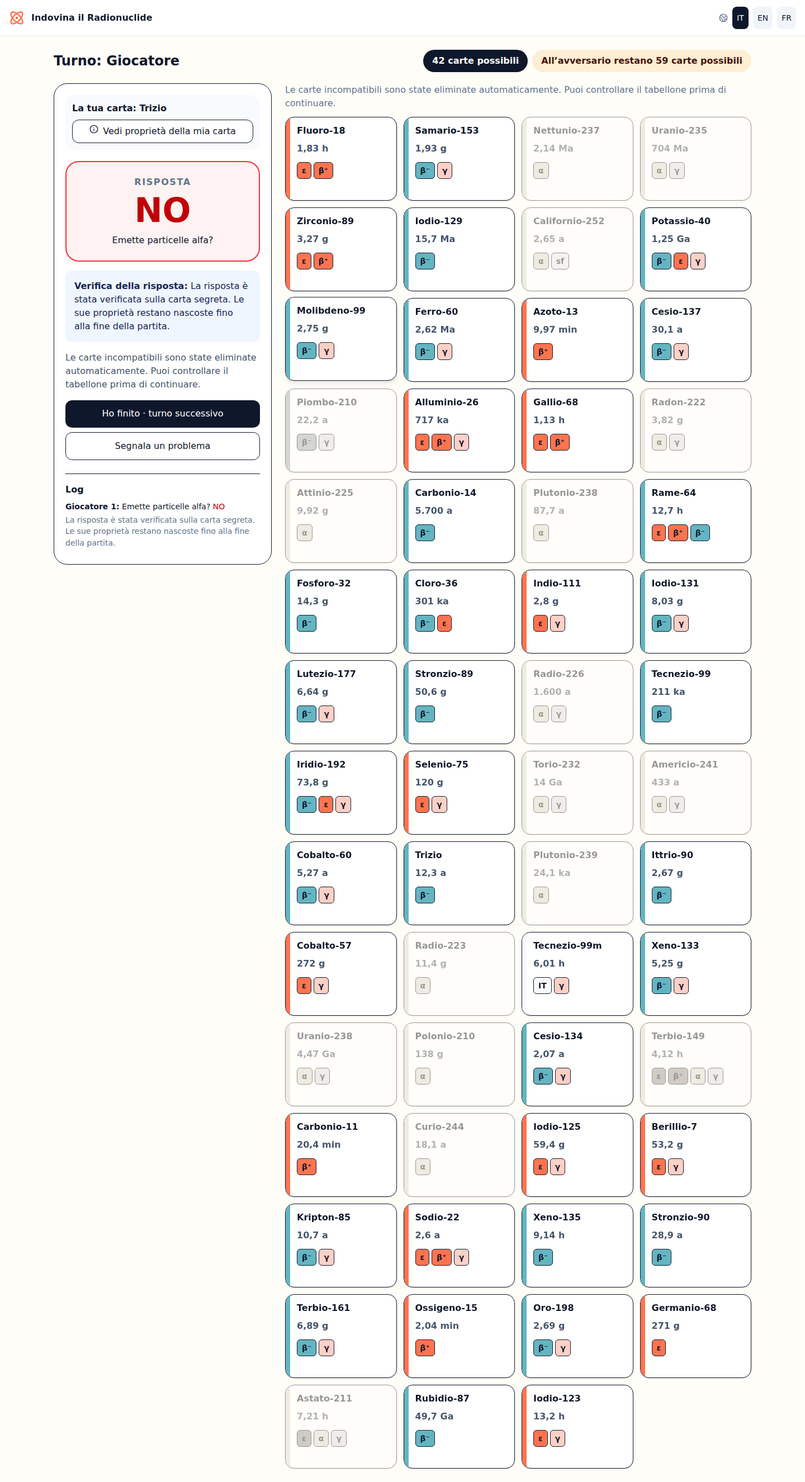
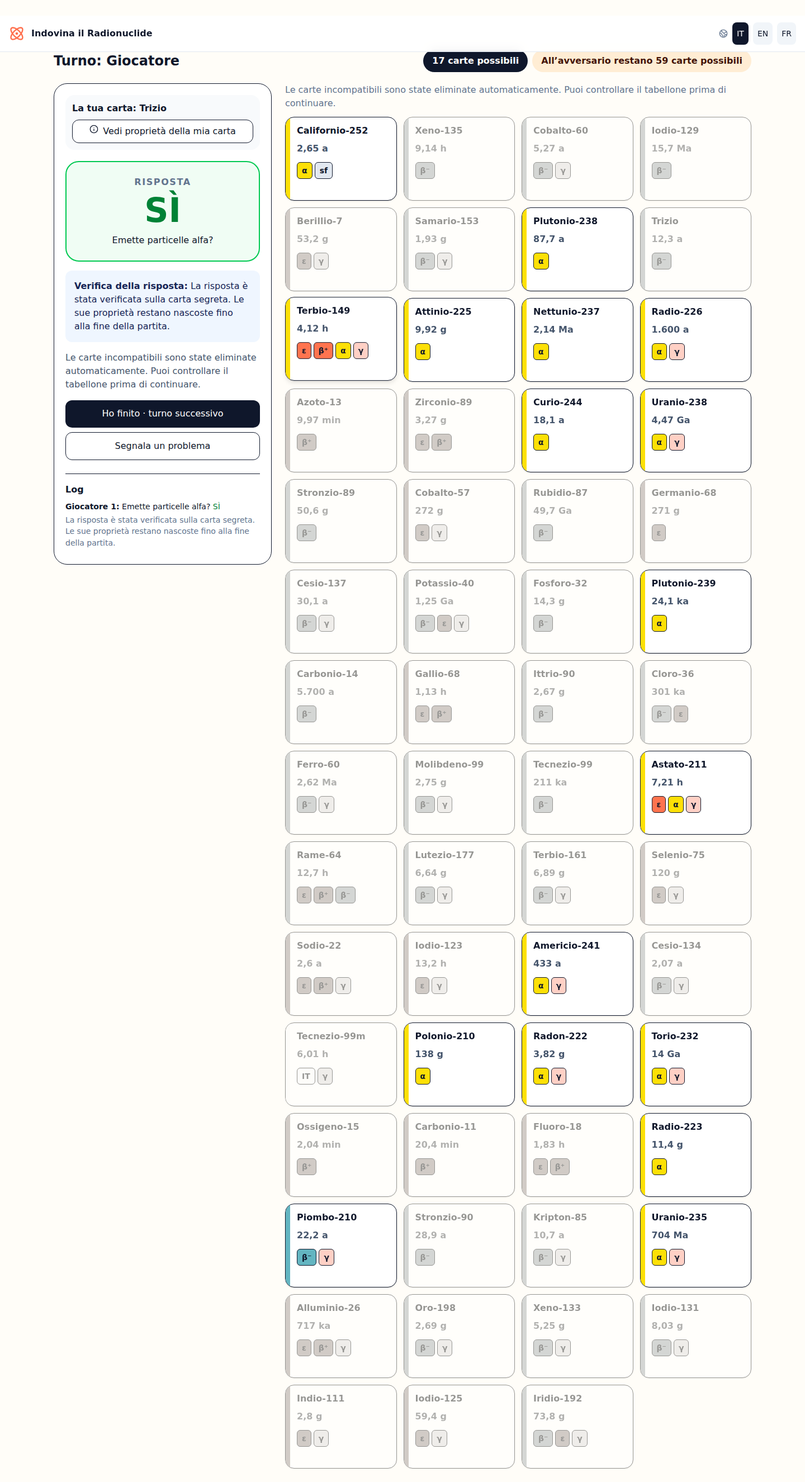
Add files via upload

diff --git a/src/upgrade.css b/src/upgrade.css
@@ -1,3 +1,4 @@
 :root{color-scheme:light;--ink:#142a43;--line:#d9e2ec;--accent:#e9623e}body{margin:0;font-family:Inter,ui-sans-serif,system-ui,sans-serif;line-height:1.55}button,input,textarea,select{font:inherit}button{cursor:pointer;touch-action:manipulation;min-height:40px}button:disabled{cursor:wait}button:focus-visible,a:focus-visible,input:focus-visible,textarea:focus-visible{outline:3px solid #087f8c;outline-offset:3px}.text-xs{font-size:.875rem!important;line-height:1.45!important}.text-sm{font-size:1rem!important;line-height:1.5!important}.evidence{margin:1.5rem 0;border:1px solid var(--line);border-top:4px solid #087f8c;border-radius:12px;padding:1rem;background:#f6fafc}.evidence h3,.evidence h4{font-weight:750;margin:.5rem 0}.evidence dl{display:grid;grid-template-columns:1fr 1fr;gap:.5rem;font-size:.875rem}.evidence dd{margin:0;font-weight:600}.evidence p{font-size:.875rem;margin:.75rem 0}.evidence a{color:#005e76;text-decoration:underline}.evidence input[type=range],.evidence progress{display:block;width:100%;margin:.8rem 0}.confirm-query h2{font-size:1.35rem;font-weight:800;margin-bottom:.75rem}.confirm-query p{margin:.75rem 0}.confirm-query button{padding:.65rem 1rem;border-radius:.65rem;border:1px solid var(--line);margin:.35rem}.confirm-query .confirm{background:var(--ink);color:white}.privacy-screen{position:fixed;inset:0;z-index:70;background:var(--ink);color:white;display:grid;place-content:center;text-align:center;padding:2rem}.privacy-screen button{background:white;color:var(--ink);padding:.85rem 1.5rem;border-radius:.75rem;margin:1rem}.status-line{font-size:.875rem;color:#475569}.upgrade-tag{font-size:.75rem;font-weight:750;border:1px solid var(--line);border-radius:20px;padding:.2rem .55rem}.sr-only{position:absolute;width:1px;height:1px;padding:0;margin:-1px;overflow:hidden;clip:rect(0,0,0,0);white-space:nowrap;border:0}@media(max-width:600px){header{gap:.25rem!important;padding:.6rem!important}main{padding-left:1rem!important;padding-right:1rem!important}.text-5xl{font-size:2.5rem!important}.evidence dl{grid-template-columns:1fr}.evidence dd{margin-bottom:.5rem}}@media(prefers-reduced-motion:reduce){*{scroll-behavior:auto!important;animation:none!important;transition:none!important}}
 
 [data-card-id] button{overflow-wrap:anywhere}@media(max-width:430px){.grid-cols-3{grid-template-columns:repeat(2,minmax(0,1fr))!important}}
+.mp-shell{max-width:1200px;margin:auto;padding:1rem;color:#142a43}.mp-shell h1{font-size:1.7rem;font-weight:800}.mp-shell h2{font-size:1.3rem;font-weight:700}.mp-shell h3{font-size:1.1rem;font-weight:700}.mp-panel{border:1px solid #dce2ea;background:#fff;border-radius:1.3rem;padding:1rem;margin:.8rem 0;height:fit-content}.mp-shell button{min-height:44px;border:1px solid #9facbc;border-radius:.8rem;padding:.6rem .9rem;font-weight:700;background:#f5f8fc}.mp-panel>button{display:block;width:100%;margin:.6rem 0}.mp-shell button:disabled{opacity:.5;cursor:default}.mp-shell input:not([type=checkbox]),.mp-shell textarea{width:100%;border:1px solid #9facbc;border-radius:.6rem;padding:.75rem;font-size:1rem}.mp-shell textarea{min-height:110px}.mp-shell label{display:block;margin:.6rem 0}.mp-top{display:flex;justify-content:space-between;align-items:center;gap:.8rem;flex-wrap:wrap}.mp-code{font:800 1.6rem monospace;letter-spacing:.13em}.mp-invite{display:block;overflow-wrap:anywhere;text-decoration:underline;font-size:.85rem}.mp-board{display:grid;grid-template-columns:repeat(2,minmax(0,1fr));gap:.65rem;align-content:start}.mp-board>*{min-width:0}.mp-board button{border:0;border-radius:0;background:transparent}.mp-board article>button+button{border:1px solid #cbd5e1;border-radius:.6rem;background:#f8fafc}.mp-actions{display:flex;gap:.6rem;margin-top:.7rem}.mp-actions button{flex:1}.mp-check{display:flex!important;gap:.6rem;align-items:center;min-height:44px}.mp-check input{width:22px;height:22px}.mp-question{white-space:pre-wrap;overflow-wrap:anywhere;padding:.7rem;background:#f1f5f9;border-radius:.6rem}.mp-error{background:#fff2e5;padding:.8rem;border-radius:.7rem}.mp-confirm{display:flex;flex-direction:column;gap:.5rem}.mp-shell p{margin:.55rem 0}.mp-shell button:focus-visible,.mp-shell input:focus-visible,.mp-shell textarea:focus-visible{outline:3px solid #1d4ed8;outline-offset:2px}@media(min-width:850px){.mp-layout{display:grid;grid-template-columns:320px 1fr;gap:1rem}.mp-board{grid-template-columns:repeat(3,minmax(0,1fr))}}

diff --git a/docs/MULTIPLAYER_FIREBASE_SETUP.md b/docs/MULTIPLAYER_FIREBASE_SETUP.md
@@ -1,0 +1,92 @@
+# Multiplayer Firebase setup
+
+The frontend remains on **GitHub Pages**. Firebase supplies only Anonymous Authentication and Realtime Database, compatible with the Spark plan. No Cloud Functions, Firebase Hosting, external AI, model weights or visible account signup are needed. Offline/single-player/local/atlas modes do not initialize Firebase.
+
+## 1. Project and anonymous authentication
+
+Create or select a project in the [Firebase console](https://console.firebase.google.com/). Keep Spark unless you intentionally choose otherwise. Under **Build → Authentication → Sign-in method**, enable **Anonymous**. This gives each browser a persistent anonymous UID, not a public profile. See [anonymous web authentication](https://firebase.google.com/docs/auth/web/anonymous-auth).
+
+## 2. Realtime Database
+
+Create **Realtime Database**, not Cloud Firestore, and choose a region. Start locked, not with public test rules. Copy the exact database URL displayed in the console; its hostname may end in `firebaseio.com` or `firebasedatabase.app`. See [Realtime Database web setup](https://firebase.google.com/docs/database/web/start).
+
+## 3. Register the web app and supply its public config
+
+Under **Project settings → General**, register a web app (`</>`). Do not enable Firebase Hosting. Copy only the web configuration values corresponding to `firebase-config.example.json`.
+
+For GitHub Pages, set repository **Settings → Secrets and variables → Actions → Variables → New repository variable**:
+
+- Name: `RN_FIREBASE_CONFIG`
+- Value: the complete JSON object, with double-quoted keys/strings, not `const firebaseConfig = ...`.
+
+`.github/workflows/static.yml` passes this variable to `npm run build`, which writes `dist/firebase-config.json`. The config is public by design; database rules and auth provide access control. Never put a service-account JSON, private key or administrator token here.
+
+For local development, copy `firebase-config.example.json` to `firebase-config.json` in the repository root and replace the placeholders. That file is ignored by Git. Alternatively set the same environment variable. Run `npm ci`, `npm run build`, then `npm run dev`. The existing server prints the local URL.
+
+## 4. Apply the database rules
+
+Open **Realtime Database → Rules**, paste the full contents of `database.rules.json`, then **Publish**. Do not use broad `.read: true` or `.write: true` rules to resolve errors.
+
+CLI alternative, after authenticating your own Firebase CLI account:
+
+```sh
+npx firebase deploy --only database --project YOUR_PROJECT_ID
+```
+
+`scripts/multiplayer-rules.mjs` is the maintainable source for the checked-in JSON. If editing it, run `npm run rules:generate`, review the JSON diff, and run the emulator tests before deploying. This task does not deploy anything to your Firebase project. See [Security Rules](https://firebase.google.com/docs/database/security).
+
+## 5. Authorized domains and deployment
+
+In **Authentication → Settings → Authorized domains**, add `mcolucci97.github.io` (hostname only, no protocol or repository path), and your custom domain if used. For local testing also add `localhost` and `127.0.0.1` when necessary. Keep the existing **Pages → Source: GitHub Actions** setting and deploy the reviewed branch through your normal merge/push workflow. Do not merge solely to test before reviewing the changes.
+
+The build keeps relative URLs, so `/guess-the-radionuclide/` and its invite links work. Public config is loaded only when entering online multiplayer. A missing config produces a translated setup message without breaking offline play.
+
+## 6. Test two devices
+
+1. Open the same deployed build on two phones, or two separate browser profiles. Two tabs in the same profile deliberately share one anonymous identity and cannot occupy both seats.
+2. On phone A choose **Two players · online**, configure deck/audience/level/card elimination, start and create a game.
+3. Copy the six-character code or invite link; on B choose **Join game**. Check both decks match and both clients see readiness.
+4. Privately choose and confirm a secret on each phone. Host starts first.
+5. Send a normal question, then test an unrecognized question. With answer assistance on, the receiver must be able to choose **I understood the question · answer anyway**, then YES/NO. Suggestions never submit themselves.
+6. Test **I asked it verbally**; no audio, microphone or speech-to-text exists. Answer manually, close cards, end the turn.
+7. Refresh during a pending answer and after filtering. Check identity, turn and board remain unchanged. Briefly disconnect/reconnect; neither client should win from disconnection. Back to menu preserves automatic resume; **Leave this game** clears only the local resume shortcut and lets you create/join another room. The old seat stays reserved and can be recovered with the same identity/code.
+8. Test a wrong and a correct guess, plus a third browser trying to join a full room.
+
+Production validation still requires your real project/config, deployed rules, and this two-device check. Emulator success does not prove your deployed project has the right settings.
+
+## Automated checks (no production account)
+
+```sh
+npm ci
+npm test
+npm run test:multiplayer
+npm run build
+npx playwright install chromium --only-shell
+npm run test:e2e
+npm run test:rules
+npm run test:online
+```
+
+The rules and online-browser commands start local Firebase Auth/RTDB emulators using `demo-radionuclide`; they require Java (21 recommended; verified locally with 17). First run downloads the emulator and browser. `test:online` builds with a **build-time-only** emulator switch and fictitious web config, runs three isolated mobile browser contexts (two players plus a rejected third), then rebuilds production assets. Never deploy the temporary emulator build. CI has no production credentials. A known baseline failure in `npm test` is documented in `MULTIPLAYER_PROGRESS.md`; the missing scientific integrity manifest has not been invented or the test disabled.
+
+## Troubleshooting
+
+| Symptom | Check |
+| --- | --- |
+| Online not configured | `firebase-config.json` exists under the deployed site path, valid JSON, no `YOUR_` placeholders; GitHub variable name exactly `RN_FIREBASE_CONFIG`; rebuild/redeploy. |
+| Authentication fails | Anonymous provider enabled; correct API key/project/app ID; authorized hostname; project API-key restrictions allow the app. |
+| Permission denied / game inaccessible | Actual RTDB rules published, correct database URL, two different browser identities; third players are intentionally denied. Do not loosen root access. |
+| Reconnecting | Network and browser restrictions; Firebase service accessibility; correct database region/URL. Actions remain disabled until connected. |
+| Old app after deploy | Close/reopen tabs or reload after the service-worker update. Both phones must use the same schema/build. |
+| Cannot resume after clearing storage | Anonymous identity was deleted. There is intentionally no account/password recovery or seat takeover. Create a new match in a fresh browser profile. |
+| Long-lived unused rooms | No server/TTL cleanup is installed. Review usage and manually delete abandoned room/private/presence records using the console as administrator. |
+
+## Security and honest limitations
+
+- `/rooms/CODE` contains only public match state. It never includes either secret. No root/room-list read is granted. An authenticated user may read an unfilled room to join; after it fills, only its two UIDs can read it.
+- `/private/CODE/UID` is readable/writable only by its owner, who must be assigned to that room. There is **no ancestor read grant** that exposes private children. Secret IDs must belong to the canonical deck and cannot change or be deleted once confirmed.
+- Rules freeze host/guest/config/deck, check bounded strings and enums, enforce authorized phase/turn transitions and monotonic revisions, and prevent modifying finished matches. Real rules check guess correctness against the responder’s private secret, without giving its read permission to the asker.
+- `actionId` plus revision compare-and-set protects repeated/stale moves. Readiness is commutative. Filtering uses a private applied-event marker, so retries/refresh do not filter twice. Shared and private writes are deliberately separate; recovery repairs a confirmed private secret whose ready flag was interrupted.
+- Presence uses one `onDisconnect` record per connection/tab; disconnect never determines a winner. See [Firebase presence](https://firebase.google.com/docs/database/web/offline-capabilities).
+- A friend holding an open code can claim the second seat. Anonymous auth is not anti-spam or invitation authentication. No App Check, rate-limit service, room expiration or server cleanup is configured; monitor Spark quotas. A dishonest participant can inspect their own board, choose dishonest manual answers, refuse to respond, or use external scientific knowledge. The computer’s interpretation is advisory, not authoritative. A guess waits for the responder’s client to reconnect; no trusted server executes it while both clients are absent.
+- The client validates deck uniqueness and query meaning; rules protect immutable configuration and field types, not the truth of natural-language interpretation. These are friendly two-player games, not a cheat-proof ranked service.

diff --git a/docs/MULTIPLAYER_REPORT.md b/docs/MULTIPLAYER_REPORT.md
@@ -1,0 +1,78 @@
+# Multiplayer V3 — implementation report
+
+Date: 24 September 2026. Implementation and emulator/browser validation completed locally. **Not pushed, not merged, not deployed.**
+
+## Branch and checkpoints
+
+Branch: `feature/multiplayer-online`, based on the actual GitHub main `153181590ff2c018548aa726616c1546e12b0ed9`. The current main’s newer interpreter/model were preserved, not replaced by an earlier ZIP.
+
+- `955159d` — local spoken turns, independent manual boards and confirmed guesses.
+- `e63339a` — room state machine, service, private boards, lazy Firebase adapter and unit tests.
+- `992db05` — mobile online UI, localization and actual RTDB rules.
+- `de1893b` — emulator-verified transaction/recovery fixes, online browser tests, setup and CI.
+- `a66141c` — recovery of pending actions after concurrent writes, bounded retries, React-hook regression tests and reviewed UI refinements.
+- Final checkpoint: the commit containing this report and final results. The delivery includes the exact complete commit log and a Git bundle.
+
+Remote creation was retried during recovery and returned **403 Resource not accessible by integration**; direct push had no GitHub credentials. No PR was created, and remote `main` was not changed. The bundle can be imported and pushed by an authorized repository writer.
+
+## What works
+
+**One device:** ask and answer aloud; no normal-turn textarea/parser. Each player manually closes/restores their own cards. End turn covers the screen and requires confirmation before passing control. Guesses require choosing a card and confirming. A wrong guess passes the turn without revealing the secret; a correct guess finishes and reveals the result.
+
+**Two devices:** host creates an authenticated room with a six-character code excluding O/0/I/1; guest joins using the code or copyable invite URL. Transactions allocate exactly two seats. Host persists the shared deck/config; guest never shuffles a second deck. Each phone confirms its own secret privately; only ready flags are public. Host starts first.
+
+**Questions:** written text is delivered exactly, including when parsing fails. The existing deterministic interpreter/semantic fallback is unchanged and no LLM is needed. Valid interpretations are serialized into `queryJson` (empty string represents no query, avoiding RTDB null/deletion ambiguity). Verbal mode synchronizes a question event with no text and no audio or speech processing.
+
+**Answer assistance:** a separate private per-player toggle. When enabled for written questions it validates the received query, falls back to the existing interpreter as needed, and evaluates only the responder’s own secret. The human confirms a suggestion; it never submits itself. Failed/ambiguous/unsupported interpretations display the tested “answer anyway” escape. Successful interpretations also have a rejection/manual route. Verbal mode always has YES/NO.
+
+**Elimination:** host-selected automatic/manual card elimination is separate from answer assistance. Automatic filtering uses only a human-confirmed usable query and runs on the asking player’s private board. Bypassed/rejected/unknown/verbal/manual answers carry no accepted query and permit manual card closure. Unknown card values are retained. Manual corrections can restore a card; an applied-event marker prevents repeated filtering after reconnect.
+
+**Recovery and races:** persisted anonymous identity, URL + local resume shortcut, public/private subscriptions and per-tab `onDisconnect` presence. Refresh/reopen restores phase and private board. No disconnect victory. Revisions, action/question IDs, transactions and immediate UI busy guards prevent duplicate/stale moves. Readiness is commutative; recovery repairs an interrupted secret/ready sequence. Repairs queued while another write is busy resume when it finishes; failed repairs wait for retry/reconnect instead of looping. Explicitly leaving only clears the local shortcut, never replaces a seat or invents a winner.
+
+## Architecture and files
+
+| Files | Role |
+| --- | --- |
+| `src/App.js`, `src/upgrade.css` | Small integration into V3; local verbal flow, confirmation, online entry and reused card/dialog components. |
+| `src/multiplayer/stateMachine.js`, `roomService.js` | Canonical config, pure authorized transitions, commands and private board operations. |
+| `src/multiplayer/questions.js` | Existing interpreter/evaluator adapter, safe query validation, suggestions and conservative filtering. |
+| `src/multiplayer/firebaseClient.js`, `firebaseTransport.js` | Lazy modular SDK, persisted anonymous auth, real transactions, isolated subscriptions and presence. |
+| `src/multiplayer/useOnlineRoom.js`, `OnlineGame.jsx`, `i18n.js` | Resume/recovery, mobile flow and all new IT/EN/FR strings. |
+| `src/multiplayer/memoryTransport.js` | Test-only in-memory transport; not imported by production. |
+| `database.rules.json`, `scripts/multiplayer-rules.mjs` | Deployable RTDB rules and maintainable generator. |
+| `firebase.json`, `firebase-config.example.json` | Emulator configuration and safe public web-config template. |
+| `scripts/build.mjs`, `package*.json`, `.gitignore` | SDK/dev-test dependencies, public-config build input, ignored local/generated files. |
+| `.github/workflows/static.yml`, `multiplayer-tests.yml` | Existing Pages deployment plus public-config variable; credential-free multiplayer CI. |
+| `tests/browser.mjs`, `multiplayer.test.mjs`, `multiplayer-recovery.test.mjs`, `multiplayer.rules.mjs`, `browser-online.mjs` | Regression, state/service, real security and mobile two-client checks. |
+| `docs/MULTIPLAYER_*`, browser result JSON and multiplayer screenshots, `README.md` | Setup, recovery checkpoint, report and executed-test evidence. |
+
+Scientific data, 59 cards, interpreter, single-player strategy, LLM modules and training materials have **no diff against main**. React 19, custom esbuild, relative GitHub Pages paths, PWA and offline atlas/local/single-player remain intact.
+
+## Security
+
+Public state lives at `/rooms/CODE`; secrets/boards/preferences at `/private/CODE/UID`; presence at `/presence/CODE/UID/CONNECTION`. No shared parent read exposes private data. Each private path requires the assigned owner’s authenticated UID. Rules freeze confirmed secrets, both seats and canonical config/deck, enforce typed fields and permitted phase/revision transitions, and prevent reopening a finished game. Guess results are checked by rules against the responder’s private secret.
+
+These were tested against **actual Firebase RTDB rules**, not only mocked permissions. Production settings have not been tested because no Firebase project/config was provided.
+
+## Executed checks
+
+| Command | Result |
+| --- | --- |
+| `npm test` | 657 pass, **1 pre-existing failure** (658 total). |
+| `npm run test:multiplayer` | 19/19 pass (17 service/state + 2 React recovery tests). |
+| `npm run build` | Pass; production/emulator switch off in final build. |
+| `npm run test:e2e` | 11/11 browser checks pass, zero page errors. |
+| `npm run test:rules` | 7/7 emulator security/real-adapter tests pass. |
+| `npm run test:online` | 8/8 scenario groups pass using separate mobile browser contexts, real modular SDK, Auth/RTDB emulators and deployed-to-emulator rules; zero page errors. |
+| `npm audit --omit=dev` | No reported production dependency vulnerabilities at execution. |
+| `git diff --check`, rule regeneration comparison | Pass; checked-in rules match generator. |
+
+The full-suite failure is `tests/engine.test.mjs` → “All nuclear snapshots match their content hashes”: canonical main lacks `data/raw/manifest.json`. It failed before changes (638 pass / 1 fail). The test was neither disabled nor weakened, and scientific data were not modified to hide it. Restoring that authoritative integrity manifest is separate follow-up work. The new CI intentionally reports this failure while still running multiplayer checks.
+
+## External steps and limitations
+
+1. An authorized repository writer imports/pushes the branch and reviews it; no automatic merge.
+2. Create/select Firebase, enable Anonymous Authentication, create RTDB/register web app, supply public `RN_FIREBASE_CONFIG`, deploy `database.rules.json`, authorize the Pages hostname, and redeploy using the existing Pages workflow. Detailed instructions: `MULTIPLAYER_FIREBASE_SETUP.md`.
+3. Test the deployed site on two real phones. Emulator tests do not certify the live project configuration.
+
+Anonymous identity cannot be recovered after browser storage is cleared. A pending guess needs the responder’s client online to complete. There is no server cleanup, rate-limiting service, matchmaking or cheat-proof adjudication of natural-language answers; players can intentionally answer dishonestly. Anyone with an unused valid code can claim its second seat. These friendly-match limitations are documented rather than hidden. No LLM training/download, audio, Cloud Functions, new hosting backend or educational expansion was implemented.

diff --git a/docs/MULTIPLAYER_PROGRESS.md b/docs/MULTIPLAYER_PROGRESS.md
@@ -1,0 +1,62 @@
+# Multiplayer implementation progress
+
+## Current branch
+`feature/multiplayer-online`, latest implementation checkpoint `a66141cecb28556ba800594f9c6131f2e4359f08`; the final documentation/test-evidence commit contains this file. Use `git log -1` for its exact hash. Based on canonical main `153181590ff2c018548aa726616c1546e12b0ed9`, rechecked against GitHub during recovery. Remote still has only main.
+
+## Completed
+- Existing V3 inspected and extended; scientific data, parser, semantic model, AI strategy and LLM unchanged.
+- Local verbal/manual turns, independent boards, privacy handoff, confirmed wrong/correct guesses.
+- Online canonical deck/config, atomic two-seat join, own-secret confirmation, host first, raw written/verbal events, manual answers and separate personal assistance preference.
+- Parser failure escape and successful-interpretation rejection; automatic filtering only after confirmed usable query, private applied-event marker.
+- Lazy modular Firebase SDK, persisted anonymous auth, isolated public/private/presence subscriptions and real RTDB Security Rules.
+- Refresh/reopen identity and phase recovery; no disconnect victory; explicit leave/new game; IT/EN/FR phone UI.
+- Reviewed all previous uncommitted changes rather than replacing them.
+- Fixed recovery effect missing a busy-state dependency: a pending guess/filter/ready repair now resumes after another write finishes. Failed repairs do not loop; explicit retry/reconnect can retry. Two deterministic React-hook tests pass.
+- Real emulator rules: 7/7 pass again, including private access denial, immutable deck/secrets, turn/guess rules and simultaneous joins through real adapter.
+
+## In progress
+**Implementation and local validation completed.** No coding task in progress. Preparing the committed source/Git-bundle delivery because remote writing is denied.
+
+## Not started
+External only: authorized remote push/PR, production Firebase configuration/rules deployment, and a live two-phone validation. Remote create-branch was retried and still returns 403. No remaining planned multiplayer feature implementation.
+
+## Architecture decisions
+- Reuse existing `be`/`xe` cards, `ze` interpreter (deterministic then semantic), `validQuery`, `Ge`, `formatQuery` and card/dialog UI. Multiplayer never calls or downloads the optional LLM.
+- Public rooms exclude secrets. Private data live under separate `/private/CODE/UID`, readable by assigned owner only. No parent read grant.
+- Room actions use revision/action IDs and transactions; readiness is commutative. A fetched initial value seeds the SDK's null first callback; server compare-and-set remains authoritative.
+- Queries are validated/serialized in queryJson; empty string means absent. Only acceptedQueryJson may filter; manual bypass clears it.
+- Anonymous auth + room URL/local shortcut restore own seat. One presence record per connection. Repair attempts once per revision, with retry/reconnect reset.
+
+## Important files
+- `src/App.js`, `src/upgrade.css`: limited V3 integration/local turns/phone styles.
+- `src/multiplayer/`: stateMachine, roomService, questions, firebaseClient/firebaseTransport, useOnlineRoom, OnlineGame, i18n; test-only memoryTransport.
+- `database.rules.json`, `scripts/multiplayer-rules.mjs`: actual rules + generator.
+- `firebase.json`, `firebase-config.example.json`, `scripts/build.mjs`, package files and workflows: emulator/public config/lazy build/CI.
+- `tests/multiplayer*.mjs`, `tests/browser-online.mjs`, `tests/browser.mjs`: unit/hook/security/mobile/regression tests.
+- `docs/MULTIPLAYER_FIREBASE_SETUP.md`, result JSON/screenshots: setup and recorded evidence. Final report being finalized.
+
+## Tests
+Final executed checks after recovery:
+- `npm test`: 657 pass / 1 pre-existing failure (658 total).
+- `npm run test:multiplayer`: 19/19 (17 service/state + 2 React-hook tests).
+- `npm run build`: pass; final build is production, not emulator.
+- `npm run test:e2e`: 11/11 browser checks; zero page errors.
+- `npm run test:rules`: 7/7 actual emulator security/adapter tests.
+- `npm run test:online`: 8/8 mobile scenario groups with Auth/RTDB emulators and production SDK; zero page errors.
+- `git diff --check` and regeneration of checked-in rules: pass. Phone screenshot visually checked.
+The first recovery browser attempt found the environment's Chromium installation missing; installed the test browser and reran successfully. Test cleanup now restores production assets even if browser launch fails. No LLM preparation/download/training occurred.
+Canonical main baseline: 638 pass / 1 fail because `data/raw/manifest.json` is missing. Nuclear integrity test remains unchanged. Do not invent scientific data to hide it.
+
+## Known issues
+GitHub create-branch again returned **403 Resource not accessible by integration** during this recovery. Direct push also could not authenticate in this workspace. No remote branch/PR, merge or deployment. Local commits are preserved in the delivery Git bundle and exact committed source ZIP.
+Anonymous identity cannot survive clearing browser storage. Pending guesses await the responder client. No automatic room cleanup or dishonest-answer adjudication; documented friendly-match limitations.
+
+## Firebase status
+SDK/auth/RTDB/presence/rules implemented and emulator-tested. No production project/config provided; build accepts public RN_FIREBASE_CONFIG or ignored firebase-config.json. Setup guide covers rules, domains, deployment and two-device test.
+
+## Exact next actions
+1. An authorized repository writer imports/pushes `feature/multiplayer-online` from the provided Git bundle (see README_IMPORT_IT.md in delivery). Inspect actual history before continuing; do not restart or overwrite this branch.
+2. Review a PR against current main; do not merge without review.
+3. Follow MULTIPLAYER_FIREBASE_SETUP.md: Anonymous Auth, RTDB, public web config, rules, authorized domain, Pages deployment.
+4. Validate the deployed project on two physical phones. Keep emulator results distinct from live production validation.
+5. Separately restore the authoritative missing nuclear integrity manifest if desired; do not fabricate it or weaken the existing test.
